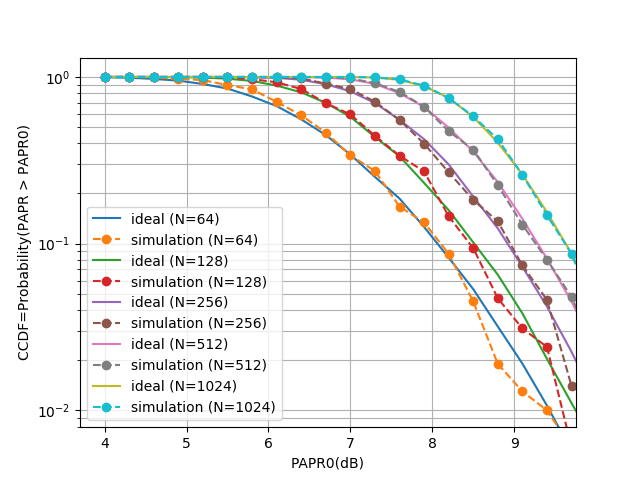
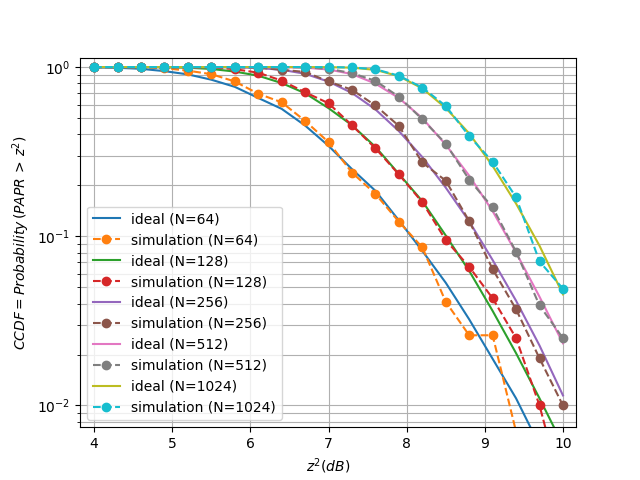
完成單載波的PAPR模擬 OFDM已完成: 	single-carrier signal的PAPR分析

diff --git a/OFDM/PAPR reduction/PAPR (single carrier).py b/OFDM/PAPR reduction/PAPR (single carrier).py
@@ -1,0 +1,139 @@
+import numpy as np
+import matplotlib.pyplot as plt
+
+Ts = 1              # 正常情況的取樣周期，同時傳送端也會每個Ts送一個symbol
+L = 8               # oversampling factor
+Fs = 1/Ts * L       # 取樣頻率 (乘上L是因為過取樣(oversampled)的原因)
+Fc = 1              # 載波頻率
+
+for k in range(3):
+    if k == 0:
+        constellation = [-1+0j, 1+0j]
+        constellation_name = 'BPSK'
+    elif k == 1:
+        constellation = [-1-1j, -1+1j, 1-1j, 1+1j]
+        constellation_name = 'QPSK'
+    elif k == 2:
+        constellation = [1 + 1j, 1 + 3j, 3 + 1j, 3 + 3j, -1 + 1j, -1 + 3j, -3 + 1j, -3 + 3j, -1 - 1j, -1 - 3j, -3 - 1j, -3 - 3j, 1 - 1j, 1 - 3j, 3 - 1j, 3 - 3j]
+        constellation_name = '16QAM'
+
+    N_symbol = len(constellation)  # 用來代表傳送端會送多少個symbol
+
+    n_time = [0]*(L*N_symbol)      # 用來代表過取樣的時間點
+    for m in range(len(n_time)):
+        n_time[m] = m * Ts/L
+
+    t_time = [0]*(L*N_symbol*50)   # 用來近似連續信號的時間
+    for m in range(len(t_time)):
+        t_time[m] = m * Ts/(L*50)
+
+    # 先來決定baseband signal的discrete time sequence
+    symbol_sequence = constellation[:]    # 假設傳送端送出所有星座圖中的每個symbol，而這個離散序列就是symbol_sequence
+
+    s = [0]*(L*N_symbol)                  # s就是對baseband的連續時間信號過取樣後的結果
+    for m in range(len(symbol_sequence)):
+        for n in range(L):                # L為oversampling factor (就是會過取樣多少倍)
+            s[m*L + n] = symbol_sequence[m]
+
+    s_power = [0]*(L*N_symbol)            # 這是將s的每個取樣點取絕對值平方，代表每個取樣點的能量
+    for m in range(len(s)):
+        s_power[m] = abs(s[m])**2
+
+    # 最後還要算一下s的PAPR
+    # 先算average power
+    # 並順便找出peak power
+    avg_power = 0
+    peak_power = 0
+    for m in range(len(s_power)):
+        avg_power += s_power[m]
+        if s_power[m] > peak_power:
+            peak_power = s_power[m]
+    avg_power /= len(s_power)
+    PAPR = peak_power / avg_power
+    PAPR_dB = 10*np.log10(PAPR)
+
+    s_real = [0]*len(s)                    # s_real 就是過取樣信號s的實部
+    s_imag = [0]*len(s)                    # s_imag 就是過取樣信號s的虛部
+    for m in range(len(s)):
+        s_real[m] = s[m].real
+        s_imag[m] = s[m].imag
+
+    plt.figure(constellation_name)
+    plt.subplot(3,2,1)
+    markerline, stemlines, baseline = plt.stem(n_time, s_real, markerfmt=' ')
+    plt.setp(baseline, 'color', 'k')  # 設定底線顏色為黑
+    plt.setp(stemlines, 'color', 'k') # 設定脈衝顏色為黑
+    plt.title('{0}, {1} symbols, Ts={2}s, Fs={3}Hz, L={4}'.format(constellation_name, N_symbol, Ts, Fs, L))
+    plt.ylabel(r'$\~s_I[n]$')
+    plt.subplot(3,2,3)
+    markerline, stemlines, baseline = plt.stem(n_time, s_imag, markerfmt=' ')
+    plt.setp(baseline, 'color', 'k')  # 設定底線顏色為黑
+    plt.setp(stemlines, 'color', 'k')  # 設定脈衝顏色為黑
+    plt.ylabel(r'$\~s_Q[n]$')
+    plt.subplot(3,2,5)
+    markerline, stemlines, baseline = plt.stem(n_time, s_power, markerfmt=' ')
+    plt.setp(baseline, 'color', 'k')  # 設定底線顏色為黑
+    plt.setp(stemlines, 'color', 'k')  # 設定脈衝顏色為黑
+    plt.title('PAPR={0:.3F}dB'.format(PAPR_dB))
+    plt.xlabel('time(s)\nbaseband signal')
+    plt.ylabel(r'$|\~s_I[n]|^2+|\~s_Q[n]|^2$')
+
+    # 接下來決定passband signal的continuous time signal及過取樣後的discrete time sequence
+    # 先決定continuous time signal吧 (在模擬中仍是discrete time sequence，只是時間點較密集，所以看不出來是離散信號)
+    continuous_s = [0]*len(t_time)
+    p = 0
+    for m in range(len(symbol_sequence)):
+        for n in range(len(t_time) // len(symbol_sequence)):
+            continuous_s[p] = ( symbol_sequence[m] * np.exp(1j * 2*np.pi * Fc * t_time[p]) ).real
+            p += 1
+
+    # 決定對continuous time signal過取樣後的discrete time sequence
+    discrete_s = [0]*len(n_time)
+    p = 0
+    for m in range(len(symbol_sequence)):
+        for n in range(len(n_time) // len(symbol_sequence)):
+            discrete_s[p] = ( symbol_sequence[m] * np.exp(1j * 2*np.pi * Fc * n_time[p]) ).real
+            p += 1
+
+    # 接下來對continuous time signal和discrete time sequence的每一個點取平方來得到每一點的能量
+    continuous_s_power = [0]*len(t_time)
+    discrete_s_power = [0]*len(n_time)
+    for m in range(len(continuous_s_power)):
+        continuous_s_power[m] = abs(continuous_s[m])**2
+    for m in range(len(discrete_s_power)):
+        discrete_s_power[m] = abs(discrete_s[m])**2
+
+    # 最後透過discrete time sequence找passband signal 的PAPR
+    # 先算average power
+    # 並順便找出peak power
+    avg_power = 0
+    peak_power = 0
+    for m in range(len(discrete_s_power)):
+        avg_power += discrete_s_power[m]
+        if discrete_s_power[m] > peak_power:
+            peak_power = discrete_s_power[m]
+    avg_power /= len(discrete_s_power)
+    PAPR = peak_power / avg_power
+    PAPR_dB = 10 * np.log10(PAPR)
+
+    plt.figure(constellation_name)
+    plt.subplot(2, 2, 2)
+    plt.plot(t_time, continuous_s, color='red', linestyle='--')
+    markerline, stemlines, baseline = plt.stem(n_time, discrete_s, markerfmt=' ')
+    plt.setp(baseline, 'color', 'k')  # 設定底線顏色為黑
+    plt.setp(stemlines, 'color', 'k')  # 設定脈衝顏色為黑
+    plt.title('{0}, {1} symbols, Ts={2}s, Fs={3}Hz, L={4}'.format(constellation_name, N_symbol, Ts, Fs, L))
+    plt.ylabel(r'$s[n]$')
+    plt.subplot(2,2,4)
+    plt.plot(t_time, continuous_s_power, color='red', linestyle='--')
+    markerline, stemlines, baseline = plt.stem(n_time, discrete_s_power, markerfmt=' ')
+    plt.setp(baseline, 'color', 'k')  # 設定底線顏色為黑
+    plt.setp(stemlines, 'color', 'k')  # 設定脈衝顏色為黑
+    plt.title('PAPR={0:.3F}dB'.format(PAPR_dB))
+    plt.xlabel('time (s)\npassband signal')
+    plt.ylabel(r'$|s[n]|^2$')
+
+plt.show()
+
+
+

diff --git a/OFDM/PAPR reduction/plot CCDF.py b/OFDM/PAPR reduction/plot CCDF.py
@@ -102,8 +102,8 @@ for k in range(len(Nfft)):
     plt.semilogy(z_square_dB, CCDF_theory, label='ideal (N={0})'.format(Nfft[k]))
     plt.semilogy(z_square_dB, CCDF_simulation, marker='o', linestyle='--', label='simulation (N={0})'.format(Nfft[k]))
 
-plt.xlabel('PAPR0(dB)')
-plt.ylabel('CCDF=Probability(PAPR > PAPR0)')
+plt.xlabel(r'$z^2(dB)$')
+plt.ylabel(r'$CCDF=Probability\/(PAPR\/>\/z^2)$')
 plt.legend()
 plt.grid(True,which='both')
 plt.show()
